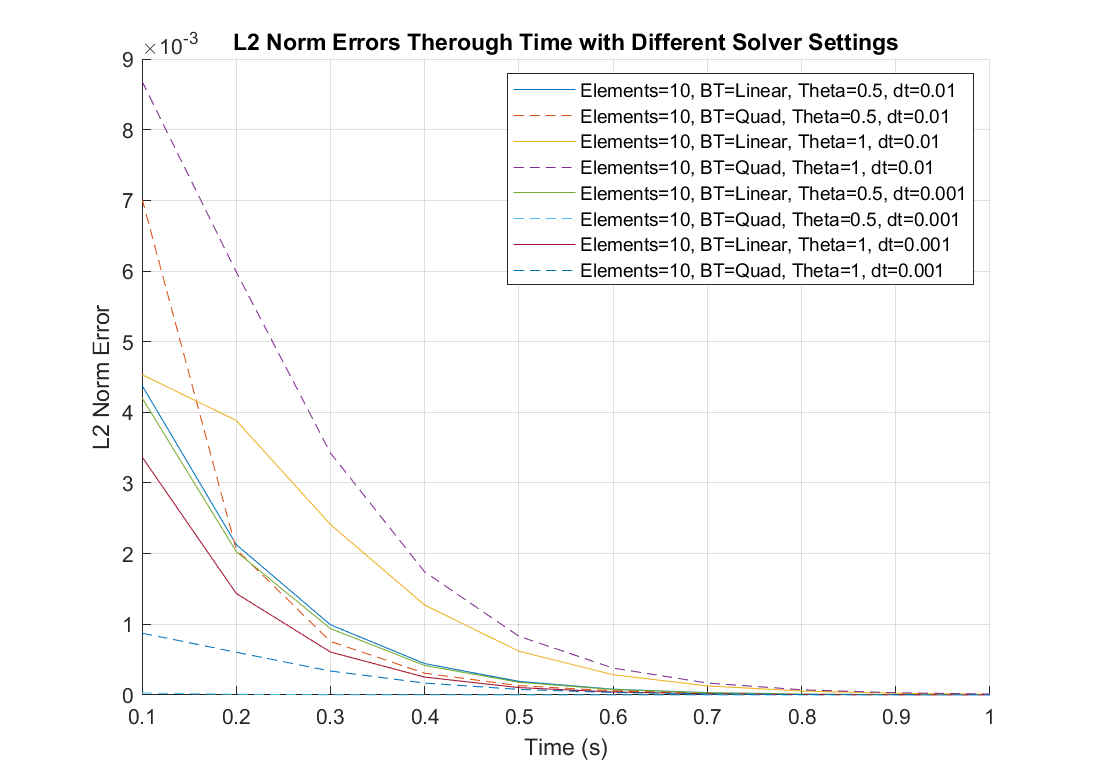
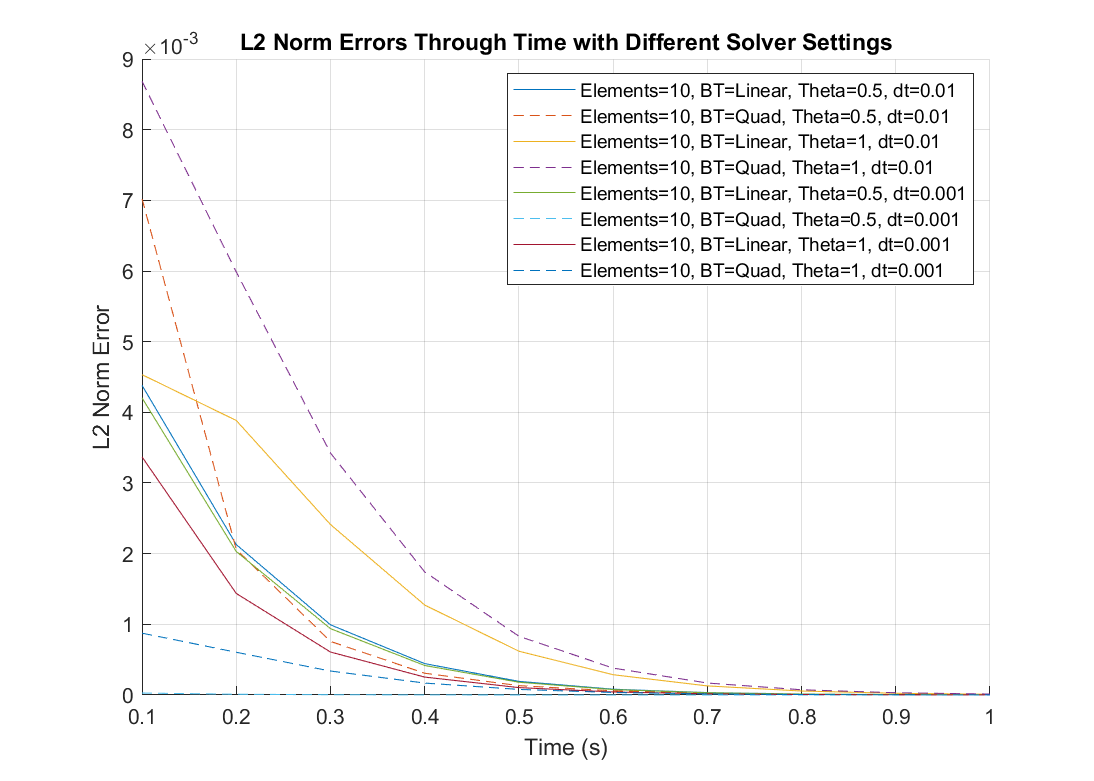
Various fixes, comments and tidy.

Changed region(s): [[0.2176, 0.0307, 0.8391, 0.0922]]

diff --git a/part1.m b/part1.m
@@ -30,13 +30,16 @@ for i=1:timeStepCount
     y(i)=TransientAnalyticSoln(x_point,x(i));
 end
 plot(x,y,'DisplayName',['Analytical Solution - x:' num2str(x_point)])
-saveas(fixedX,['status/cw2/part1_theta_' num2str(P.Transient.Theta) '_dt_' num2str(P.Transient.dt) '_' P.basisType '.png']);
+saveas(fixedX,['status/cw2/part1_theta_' num2str(P.Transient.Theta) ...
+    '_dt_' num2str(P.Transient.dt) '_' P.basisType '.png']);
 
 
 figure(changeTime); % Load into gcf
 title('Solution Varying Transiently - Crank Nicolson');
 legend('Location','Northwest');
-saveas(changeTime,['status/cw2/part1_time_overview_theta_' num2str(P.Transient.Theta) '_dt_' num2str(P.Transient.dt) '_' P.basisType '.png']);
+saveas(changeTime,['status/cw2/part1_time_overview_theta_' ...
+    num2str(P.Transient.Theta) '_dt_' num2str(P.Transient.dt) '_' ...
+    P.basisType '.png']);
 
 % Creat a new transient Problem for Backwards Euler
 PE=newTransientProblem();
@@ -63,13 +66,16 @@ for i=1:timeStepCountE
     yE(i)=TransientAnalyticSoln(x_point,xE(i));
 end
 plot(xE,yE,'DisplayName',['Analytical Solution - x: ' num2str(x_point)]);
-saveas(fixedXE,['status/cw2/part1_theta_' num2str(PE.Transient.Theta) '_dt_' num2str(P.Transient.dt) '_' PE.basisType '.png']);
+saveas(fixedXE,['status/cw2/part1_theta_' num2str(PE.Transient.Theta)...
+    '_dt_' num2str(P.Transient.dt) '_' PE.basisType '.png']);
 
 
 figure(changeTimeE); % Load into gcf
 title('Solution Varying Transiently - Backwards Euler');
 legend('Location','Northwest');
-saveas(changeTimeE,['status/cw2/part1_time_overview_theta_' num2str(PE.Transient.Theta) '_dt_' num2str(P.Transient.dt) '_' PE.basisType '.png']);
+saveas(changeTimeE,['status/cw2/part1_time_overview_theta_'...
+    num2str(PE.Transient.Theta) '_dt_' num2str(P.Transient.dt) '_'...
+    PE.basisType '.png']);
 
 % Compare errors at xpoint
 errorCompare=figure();
@@ -84,4 +90,5 @@ ylabel('Error (Ce-Cx)');
 legend('Location','Northeast');
 title(['Error from Analytical Solution at x=' num2str(x_point)]);
 grid on;
-saveas(errorCompare,['status/cw2/part1_error_x-' num2str(x_point) '_dt_' num2str(P.Transient.dt) '_' PE.basisType '.png']);
+saveas(errorCompare,['status/cw2/part1_error_x-' num2str(x_point) '_dt_'...
+    num2str(P.Transient.dt) '_' PE.basisType '.png']);

diff --git a/src/transient/globalMatrixTransient.m b/src/transient/globalMatrixTransient.m
@@ -1,6 +1,8 @@
 function [GM,GV,Problem] = globalMatrixTransient(Problem)
-%GLOBALMATRIXTRANSIENT Calculates all requierd matrices and vectors to solve a 1D FEM problem.
-%Generates Global Matrix and source vector, then applies boundary conditions to the vectors.
+%GLOBALMATRIXTRANSIENT Calculates all requierd matrices and vectors to solve
+% a 1D FEM problem.
+%Generates Global Matrix and source vector, then applies boundary conditions
+% to the vectors.
 
 %   Problem - A valid transient Problem as formed by newTransientProblem() Class
 
@@ -29,7 +31,7 @@ f=zeros((2*Ne)+1,1); % Pre-allocate source vector
 BCrhs=zeros((2*Ne)+1,1); % Pre-allocate a BC vector
 
 %Set global vector to contain previous source terms and BCs
-GV=((1-Problem.Transient.Theta)*Problem.Transient.dt).*Problem.f.vec; % Pre-allocate Global Vector
+GV=((1-Problem.Transient.Theta)*Problem.Transient.dt).*Problem.f.vec; 
 
 for i=1:N-1 % Loop through each element, creating its entry into the global
     % matrix/source vector.
@@ -40,7 +42,8 @@ for i=1:N-1 % Loop through each element, creating its entry into the global
     % Same as reaction with lambda of 1.
     massElement=ReactionElemMatrix(1,i,Problem.mesh,Problem.GQ);
     % Add the previous value to the new ones. (Allows local elem overlap)
-    M((2*i)-1:(2*i)+1,(2*i)-1:(2*i)+1)=M((2*i)-1:(2*i)+1,(2*i)-1:(2*i)+1)+massElement;
+    M((2*i)-1:(2*i)+1,(2*i)-1:(2*i)+1)=...
+        M((2*i)-1:(2*i)+1,(2*i)-1:(2*i)+1)+massElement;
 
     % -- Stiffness Elements --%
     % Add the previous value to the new ones. (Allows local elem overlap)

diff --git a/part2ci.m b/part2ci.m
@@ -13,9 +13,12 @@ P2C.Mesh(0,0.01,100); % Set up mesh
 Skin=Skin();
 
 %Set coefficents as region array of values from skin object
-P2C.Diffusion.coef=[[0,Skin.E.TC];[Skin.E.xend,Skin.D.TC];[Skin.D.xend,Skin.B.TC]];
-P2C.Reaction.coef=-[[0,Skin.E.HS];[Skin.E.xend,Skin.D.HS];[Skin.D.xend,Skin.B.HS]];
-P2C.f.coef=[[0,Skin.E.HS];[Skin.E.xend,Skin.D.HS*Skin.D.Tb];[Skin.D.xend,Skin.B.HS*Skin.B.Tb]];
+P2C.Diffusion.coef=[[0,Skin.E.TC];[Skin.E.xend,Skin.D.TC];...
+                    [Skin.D.xend,Skin.B.TC]];
+P2C.Reaction.coef=-[[0,Skin.E.HS];[Skin.E.xend,Skin.D.HS];...
+                    [Skin.D.xend,Skin.B.HS]];
+P2C.f.coef=[[0,Skin.E.HS];[Skin.E.xend,Skin.D.HS*Skin.D.Tb];...
+                    [Skin.D.xend,Skin.B.HS*Skin.B.Tb]];
 
 % Set up solver settings
 P2C.Transient.Time=50;
@@ -32,7 +35,8 @@ changeTime=P2C.PlotAtTime([0.05,0.5,2,5,50]);
 figure(changeTime);
 plotSkin;
 disp(['Gamma: ' num2str(calculateBurn(P2C))]);
-title(['Transient Numerical Solution - Theta: ' num2str(P2C.Transient.Theta) ', dt: ' num2str(P2C.Transient.dt) ' Using ' P2C.basisType ' Basis Functions']);
+title(['Transient Numerical Solution - Theta: ' num2str(P2C.Transient.Theta)...
+    ', dt: ' num2str(P2C.Transient.dt) ' Using ' P2C.basisType ' Basis Functions']);
 saveas(changeTime,['status/cw2/timeoverview_2ci_theta_' P2C.basisType '.png']);
 
 % Make contor plot

diff --git a/part2cii.m b/part2cii.m
@@ -39,9 +39,12 @@ for k=1:size(steps,2)
         P2.Mesh(0,0.01,100);
         
         %Set coefficients based on Skin
-        P2.Diffusion.coef=[[0,Skin.E.TC];[Skin.E.xend,Skin.D.TC];[Skin.D.xend,Skin.B.TC]];
-        P2.Reaction.coef=-[[0,Skin.E.HS];[Skin.E.xend,Skin.D.HS];[Skin.D.xend,Skin.B.HS]];
-        P2.f.coef=[[0,Skin.E.HS];[Skin.E.xend,Skin.D.HS*Skin.D.Tb];[Skin.D.xend,Skin.B.HS*Skin.B.Tb]];
+        P2.Diffusion.coef=[[0,Skin.E.TC];[Skin.E.xend,Skin.D.TC];...
+                            [Skin.D.xend,Skin.B.TC]];
+        P2.Reaction.coef=-[[0,Skin.E.HS];[Skin.E.xend,Skin.D.HS];...
+                            [Skin.D.xend,Skin.B.HS]];
+        P2.f.coef=[[0,Skin.E.HS];[Skin.E.xend,Skin.D.HS*Skin.D.Tb];...
+                            [Skin.D.xend,Skin.B.HS*Skin.B.Tb]];
         disp(temps(i));
         
         P2.Transient.Time=50;
@@ -84,7 +87,8 @@ saveas(gammaSearch,'status/cw2/gammaSearch_2cii.png');
 
 disp(['Search Completed in ' num2str(runtimer) ' seconds']);
 
-fprintf(['\nRequired Temperature Difference: ' num2str(393.15-tempBounds(1)) 'K\nContact Temperature: ' num2str(tempBounds(1)) 'K\n']);
+fprintf(['\nRequired Temperature Difference: ' num2str(393.15-tempBounds(1))...
+    'K\nContact Temperature: ' num2str(tempBounds(1)) 'K\n']);
 fprintf(['Gamma: ' num2str(gammas(find(gammas<=1,1,'last')))]);
 
 

diff --git a/src/newTransientProblem.m b/src/newTransientProblem.m
@@ -119,7 +119,8 @@ classdef newTransientProblem < handle
                     equivRow=((x(i)/(obj.mesh.xmax-obj.mesh.xmin))*(N-1))+1;
                 end
                 c_values=obj.Solution(equivRow,:);
-                plot(timeseries,c_values,'DisplayName',['Numerical Solution - x: ' num2str(x(i))]);
+                plot(timeseries,c_values,'DisplayName',...
+                    ['Numerical Solution - x: ' num2str(x(i))]);
                 hold on;
             end
             xlabel('Time (s)');
@@ -150,7 +151,8 @@ classdef newTransientProblem < handle
                 c_values=obj.Solution(:,int16((t(i)/obj.Transient.dt)+1));
                 if strcmp(obj.basisType,'Quad')
                     % If quadratic basis, only plot global nodes
-                    plot(obj.mesh.nvec,c_values(1:2:end),'DisplayName',[num2str(t(i)) 's']);
+                    plot(obj.mesh.nvec,c_values(1:2:end),'DisplayName',...
+                        [num2str(t(i)) 's']);
                 else
                     plot(obj.mesh.nvec,c_values,'DisplayName',[num2str(t(i)) 's']);
                 end

diff --git a/part1L2Loop.m b/part1L2Loop.m
@@ -28,8 +28,9 @@ for i=1:size(dts,2)
               posCounter=((i-1)*size(Thetas,2)*size(BTs,2)*size(Elements,2))+...
                   ((j-1)*size(BTs,2)*size(Elements,2)) +...
                            ((k-1)*size(Elements,2))+m;
-               disp(['Solving: Element Counts=' num2str(Elements(m)) ', BT=' BTs{k}...
-                    ', Theta=' num2str(Thetas(j)) ', dt=' num2str(dts(i))]);
+               disp(['Solving: Element Counts=' num2str(Elements(m))...
+                   ', BT=' BTs{k} ', Theta=' num2str(Thetas(j))...
+                   ', dt=' num2str(dts(i))]);
                % Use function form of part1 problem and get solved Problem
                solvedProblem=part1Function(Thetas(j),dts(i),BTs{k},Elements(m));
                
@@ -54,7 +55,7 @@ for i=1:size(dts,2)
     end
 end
 legend();
-title('L2 Norm Errors Therough Time with Different Solver Settings');
+title('L2 Norm Errors Through Time with Different Solver Settings');
 xlabel('Time (s)');
 ylabel('L2 Norm Error');
 saveas(L2Loop,'status/cw2/L2Loop.png');

diff --git a/src/transient/globalMatrixTransientLinear.m b/src/transient/globalMatrixTransientLinear.m
@@ -1,6 +1,8 @@
 function [GM,GV,Problem] = globalMatrixTransientLinear(Problem)
-%GLOBALMATRIXTRANSIENT Calculates all requierd matrices and vectors to solve a 1D FEM problem.
-%Generates Global Matrix and source vector, then applies boundary conditions to the vectors.
+%GLOBALMATRIXTRANSIENT Calculates all requierd matrices and vectors to solve
+% a 1D FEM problem.
+%Generates Global Matrix and source vector, then applies boundary conditions
+% to the vectors.
 
 %   Problem - A valid transient Problem as formed by newTransientProblem() Class
 
@@ -28,7 +30,7 @@ f=zeros(N,1); % Pre-allocate source vector
 BCrhs=zeros(N,1); % Pre-allocate a BC vector
 
 %Set global vector to contain previous source terms and BCs
-GV=((1-Problem.Transient.Theta)*Problem.Transient.dt).*Problem.f.vec; % Pre-allocate Global Vector
+GV=((1-Problem.Transient.Theta)*Problem.Transient.dt).*Problem.f.vec; 
 
 
 % Generate Basic Global and Source

diff --git a/part2b.m b/part2b.m
@@ -38,7 +38,8 @@ for k=1:size(steps,2)
         P2.Mesh(0,0.01,100);
         
         %Set coefficients based on Skin
-        P2.Diffusion.coef=[[0,Skin.E.TC];[Skin.E.xend,Skin.D.TC];[Skin.D.xend,Skin.B.TC]];
+        P2.Diffusion.coef=[[0,Skin.E.TC];[Skin.E.xend,Skin.D.TC];...
+            [Skin.D.xend,Skin.B.TC]];
         disp(temps(i));
         
         P2.Transient.Time=50;
@@ -80,7 +81,8 @@ saveas(gammaSearch,'status/cw2/gammaSearch_2b.png');
 
 disp(['Search Completed in ' num2str(runtimer) ' seconds']);
 
-fprintf(['\nRequired Temperature Difference: ' num2str(393.15-tempBounds(1)) 'K\nContact Temperature: ' num2str(tempBounds(1)) 'K\n']);
+fprintf(['\nRequired Temperature Difference: ' num2str(393.15-tempBounds(1))...
+    'K\nContact Temperature: ' num2str(tempBounds(1)) 'K\n']);
 fprintf(['Gamma: ' num2str(gammas(find(gammas<=1,1,'last')))]);
 
 

diff --git a/src/FEMTransientSolve.m b/src/FEMTransientSolve.m
@@ -16,11 +16,13 @@ Ne=Problem.mesh.ne;
 steps=round(Problem.Transient.Time/Problem.Transient.dt);
 
 % Set global matrix assembly version, init temporary solution matrix and
-%create x-domain for plotting depending on whether basis function type is linear or quadratic.
+% create x-domain for plotting depending on whether basis function type is 
+% linear or quadratic.
 if strcmp(Problem.basisType,'Quad')
     disp('Solving using Quadratic Basis Functions');
     transientsolution=zeros((2*Ne)+1,steps+1);
-    nvecConvert=linspace(Problem.mesh.xmin,Problem.mesh.xmax,(2*Problem.mesh.ne)+1);
+    nvecConvert=linspace(Problem.mesh.xmin,Problem.mesh.xmax,...
+        (2*Problem.mesh.ne)+1);
     globalAssembler=@(x) globalMatrixTransient(Problem);
 else
     disp('Solving using Linear Basis Functions');

diff --git a/src/plotTools/plotSkin.m b/src/plotTools/plotSkin.m
@@ -1,5 +1,8 @@
 % Add skin regions to graphs
 vline([Skin.E.xend,Skin.D.xend],'k--');
-text(Skin.E.xend/2,396,'\leftarrow Epidermis \rightarrow','HorizontalAlignment', 'center');
-text((Skin.D.xend+Skin.E.xend)/2,396,'\leftarrow Dermis  \rightarrow','HorizontalAlignment', 'center');
-text(((Skin.B.xend+Skin.D.xend)/2)-0.0005,396,'\leftarrow Sub-Cutaneous  \rightarrow','HorizontalAlignment', 'center');
+text(Skin.E.xend/2,396,'\leftarrow Epidermis \rightarrow',...
+    'HorizontalAlignment', 'center');
+text((Skin.D.xend+Skin.E.xend)/2,396,'\leftarrow Dermis  \rightarrow',...
+    'HorizontalAlignment', 'center');
+text(((Skin.B.xend+Skin.D.xend)/2)-0.0005,396,...
+    '\leftarrow Sub-Cutaneous  \rightarrow','HorizontalAlignment', 'center');

diff --git a/src/L2Norm.m b/src/L2Norm.m
@@ -38,7 +38,8 @@ for i=1:Ne
         c1=Problem.Solution(solIndex+1,int16((Time/Problem.Transient.dt)+1));
         if strcmp(Problem.basisType,'Quad')
             c2=Problem.Solution(solIndex+2,int16((Time/Problem.Transient.dt)+1));
-            Cxi=(c0*basis0(gq.xipts(k))+c1*basis1(gq.xipts(k))+c2*basis2(gq.xipts(k)));
+            Cxi=(c0*basis0(gq.xipts(k))+c1*basis1(gq.xipts(k))+...
+                c2*basis2(gq.xipts(k)));
         else
             Cxi=(c0*basis0(gq.xipts(k))+c1*basis1(gq.xipts(k)));
         end
@@ -56,3 +57,4 @@ for i=1:Ne
 end
 
 RMS=sqrt(sum(elementInts)); % Sum errors over whole domain
+end

diff --git a/part2a.m b/part2a.m
@@ -29,7 +29,8 @@ changeTime=P2.PlotAtTime([0.05,0.5,2,5,50]);
 figure(changeTime);
 plotSkin;
 disp(['Gamma: ' num2str(calculateBurn(P2))]);
-title(['Transient Numerical Solution - Theta: ' num2str(P2.Transient.Theta) ', dt: ' num2str(P2.Transient.dt) ' Using ' P2.basisType ' Basis Functions']);
+title(['Transient Numerical Solution - Theta: ' num2str(P2.Transient.Theta)...
+    ', dt: ' num2str(P2.Transient.dt) ' Using ' P2.basisType ' Basis Functions']);
 saveas(changeTime,['status/cw2/timeoverview_2a_theta_' P2.basisType '.png']);
 
 % Make contor plot
